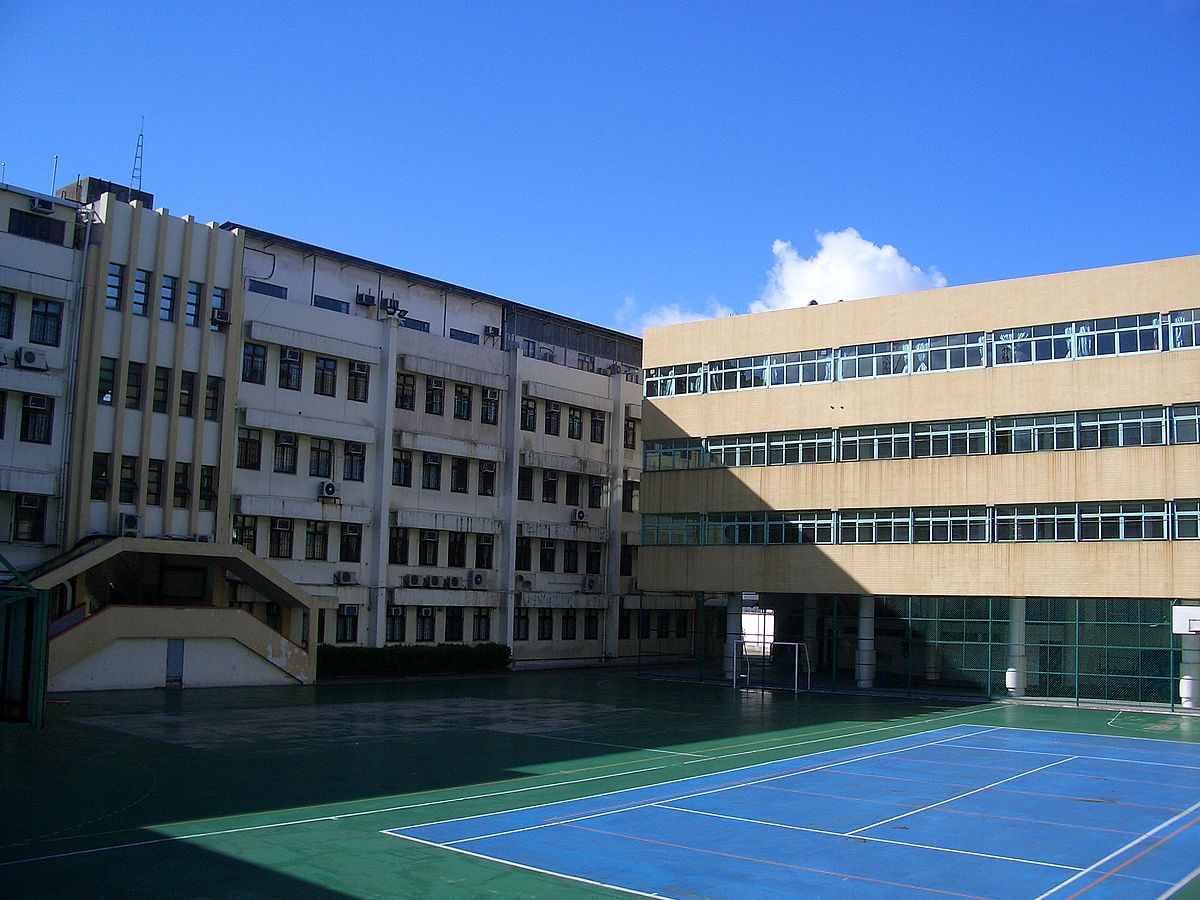
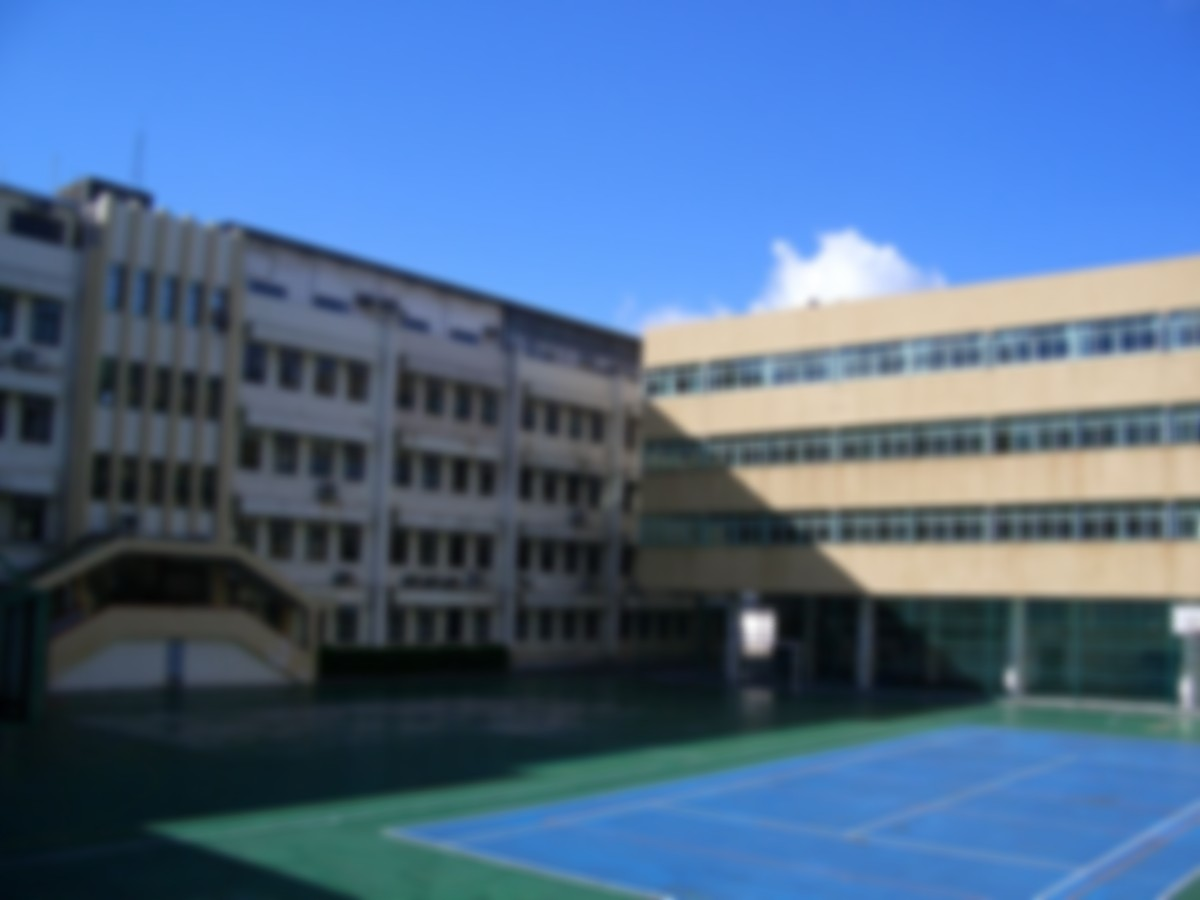
se modifica imagen de fondo

diff --git a/index.html b/index.html
@@ -29,6 +29,7 @@
   </header>
   <main>
     <section id="sobreNosotros">
+      <div class="fondo-difuminado">
       <h3>Sobre nosotros</h3>
       <p> Lorem ipsum dolor sit amet, consectetur adipiscing elit. Praesent id risus orci. Proin dignissim elementum
         maximus. Fusce aliquet diam vel sagittis rhoncus. Donec in scelerisque erat. Mauris nunc urna, volutpat eu
@@ -52,6 +53,7 @@
         Nunc rhoncus hendrerit ex, quis sollicitudin ligula fringilla id. Integer iaculis scelerisque elit, iaculis
         consequat turpis tempus id.
       </p>
+    </div>
     </section>
     <section id="material">
       <h3>Material para la comunidad educativa</h3>

diff --git a/styles/estilos.css b/styles/estilos.css
@@ -94,8 +94,6 @@ main #sobreNosotros {
   text-shadow: 0px 0px 10px #252525;
 }
 
-
-
 main #sobreNosotros h3 {
   font-family: 'Segoe UI', Tahoma, Geneva, Verdana, sans-serif;
   margin-bottom: 15px;
